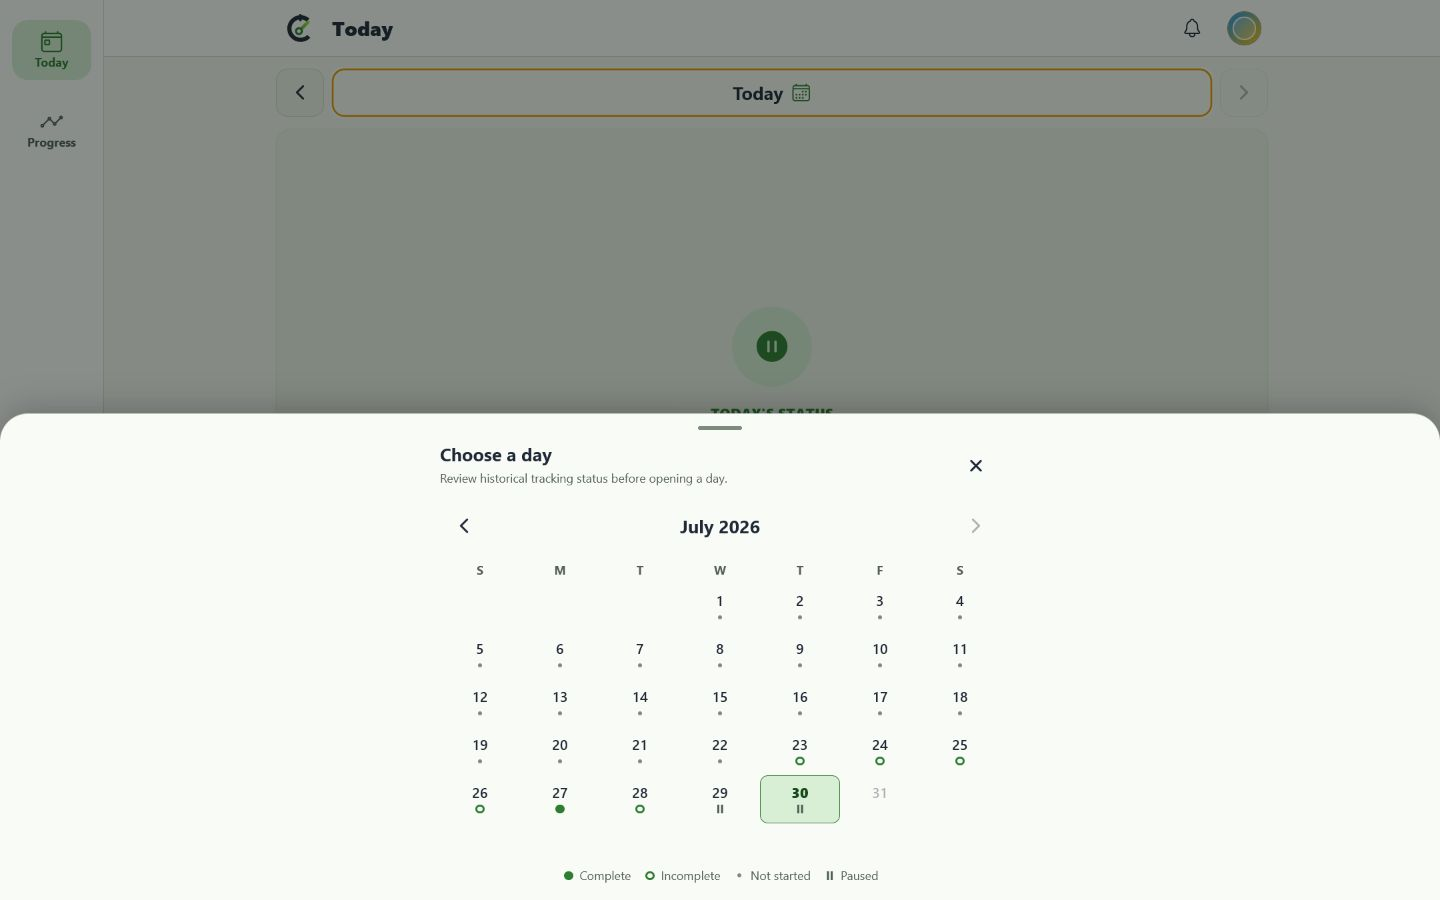
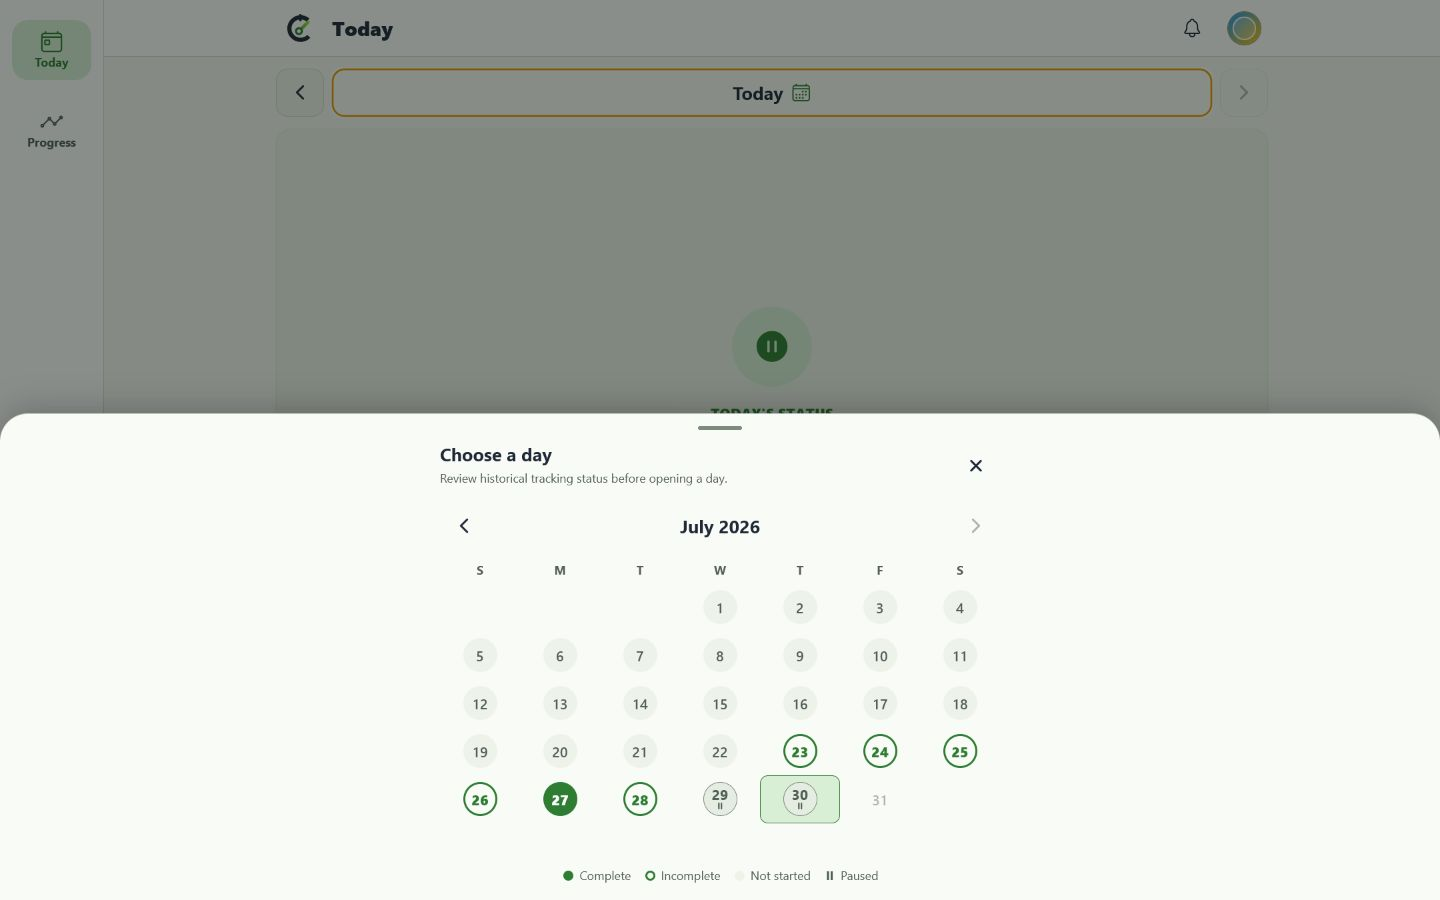
Emphasize calendar status badges

diff --git a/mobile/src/components/HistoricalDatePicker.tsx b/mobile/src/components/HistoricalDatePicker.tsx
@@ -29,7 +29,8 @@ type HistoricalDatePickerProps = {
 
 const WEEKDAY_LABELS = ['S', 'M', 'T', 'W', 'T', 'F', 'S'] as const;
 const CALENDAR_DAY_HEIGHT = 48; // Keeps each compact calendar row physically tappable.
-const CALENDAR_MARKER_SIZE = 9; // Keeps completion marks visible without competing with day numbers.
+const CALENDAR_STATUS_BADGE_SIZE = 34; // Makes the historical state the primary calendar-day silhouette.
+const CALENDAR_LEGEND_MARKER_SIZE = 10; // Keeps legend symbols proportional to their compact labels.
 const CALENDAR_CONTENT_MAX_WIDTH = 560; // Prevents calendar cells from stretching across wide browser sheets.
 
 function formatMonth(monthKey: string): string {
@@ -207,18 +208,37 @@ export const HistoricalDatePicker: React.FC<HistoricalDatePickerProps> = ({
                                             pressed && styles.pressed
                                         ]}
                                     >
-                                        <AppText
-                                            variant="label"
+                                        <View
+                                            testID={`calendar-date-badge-${date}`}
                                             style={[
-                                                styles.dayNumber,
-                                                isToday && styles.todayNumber,
-                                                isSelected && styles.selectedDayNumber
+                                                styles.dateBadge,
+                                                marker === 'complete' && styles.completeDateBadge,
+                                                marker === 'incomplete' && styles.incompleteDateBadge,
+                                                marker === 'not-started' && styles.notStartedDateBadge,
+                                                marker === 'paused' && styles.pausedDateBadge
                                             ]}
                                         >
-                                            {Number(date.slice(-2))}
-                                        </AppText>
-                                        <View style={styles.markerSlot}>
-                                            <CalendarMarker marker={marker} theme={theme} styles={styles} />
+                                            <AppText
+                                                variant="label"
+                                                style={[
+                                                    styles.dayNumber,
+                                                    isToday && styles.todayNumber,
+                                                    isSelected && marker === 'none' && styles.selectedDayNumber,
+                                                    marker === 'complete' && styles.completeDayNumber,
+                                                    marker === 'incomplete' && styles.incompleteDayNumber,
+                                                    marker === 'not-started' && styles.notStartedDayNumber,
+                                                    marker === 'paused' && styles.pausedDayNumber
+                                                ]}
+                                            >
+                                                {Number(date.slice(-2))}
+                                            </AppText>
+                                            {marker === 'paused' && (
+                                                <Ionicons
+                                                    name="pause"
+                                                    size={9}
+                                                    color={theme.colors.onSurfaceVariant}
+                                                />
+                                            )}
                                         </View>
                                     </Pressable>
                                 );
@@ -324,6 +344,28 @@ function createStyles(theme: AppTheme) {
             color: theme.colors.onSurface,
             lineHeight: 20
         },
+        dateBadge: {
+            width: CALENDAR_STATUS_BADGE_SIZE,
+            height: CALENDAR_STATUS_BADGE_SIZE,
+            alignItems: 'center',
+            justifyContent: 'center',
+            borderRadius: CALENDAR_STATUS_BADGE_SIZE / 2
+        },
+        completeDateBadge: {
+            backgroundColor: theme.colors.success
+        },
+        incompleteDateBadge: {
+            borderWidth: 2,
+            borderColor: theme.colors.success
+        },
+        notStartedDateBadge: {
+            backgroundColor: theme.colors.surfaceContainer
+        },
+        pausedDateBadge: {
+            borderWidth: theme.stroke.control,
+            borderColor: theme.colors.outline,
+            backgroundColor: theme.colors.surfaceContainerHigh
+        },
         todayNumber: {
             color: theme.colors.primary,
             fontWeight: '800'
@@ -331,33 +373,44 @@ function createStyles(theme: AppTheme) {
         selectedDayNumber: {
             color: theme.colors.onPrimaryContainer
         },
-        markerSlot: {
-            height: 14,
-            alignItems: 'center',
-            justifyContent: 'center'
+        completeDayNumber: {
+            color: theme.colors.onSuccess,
+            fontWeight: '800'
+        },
+        incompleteDayNumber: {
+            color: theme.colors.success,
+            fontWeight: '800'
+        },
+        notStartedDayNumber: {
+            color: theme.colors.onSurfaceVariant
+        },
+        pausedDayNumber: {
+            color: theme.colors.onSurfaceVariant,
+            fontWeight: '700',
+            lineHeight: 14
         },
         markerPlaceholder: {
-            width: CALENDAR_MARKER_SIZE,
-            height: CALENDAR_MARKER_SIZE
+            width: CALENDAR_LEGEND_MARKER_SIZE,
+            height: CALENDAR_LEGEND_MARKER_SIZE
         },
         completeMarker: {
-            width: CALENDAR_MARKER_SIZE,
-            height: CALENDAR_MARKER_SIZE,
-            borderRadius: CALENDAR_MARKER_SIZE / 2,
+            width: CALENDAR_LEGEND_MARKER_SIZE,
+            height: CALENDAR_LEGEND_MARKER_SIZE,
+            borderRadius: CALENDAR_LEGEND_MARKER_SIZE / 2,
             backgroundColor: theme.colors.success
         },
         incompleteMarker: {
-            width: CALENDAR_MARKER_SIZE,
-            height: CALENDAR_MARKER_SIZE,
-            borderRadius: CALENDAR_MARKER_SIZE / 2,
+            width: CALENDAR_LEGEND_MARKER_SIZE,
+            height: CALENDAR_LEGEND_MARKER_SIZE,
+            borderRadius: CALENDAR_LEGEND_MARKER_SIZE / 2,
             borderWidth: 2,
             borderColor: theme.colors.success
         },
         notStartedMarker: {
-            width: 4,
-            height: 4,
-            borderRadius: 2,
-            backgroundColor: theme.colors.outline
+            width: CALENDAR_LEGEND_MARKER_SIZE,
+            height: CALENDAR_LEGEND_MARKER_SIZE,
+            borderRadius: CALENDAR_LEGEND_MARKER_SIZE / 2,
+            backgroundColor: theme.colors.surfaceContainer
         },
         queryStatus: {
             minHeight: 20,

diff --git a/mobile/src/components/HistoricalDatePicker.test.tsx b/mobile/src/components/HistoricalDatePicker.test.tsx
@@ -1,7 +1,9 @@
 import React from 'react';
 import { fireEvent, render, waitFor } from '@testing-library/react-native';
+import { StyleSheet } from 'react-native';
 import { QueryClient, QueryClientProvider } from '@tanstack/react-query';
 import type { FoodLogDay, FoodLogDaySource, FoodLogDayStatus } from '@calibrate/api-client';
+import { themes } from '../theme';
 import { HistoricalDatePicker } from './HistoricalDatePicker';
 
 const mockGetFoodDays = jest.fn();
@@ -78,6 +80,34 @@ describe('HistoricalDatePicker', () => {
         expect(screen.getByLabelText(/Jul 13, 2026, not started/i)).toBeTruthy();
         expect(screen.getByLabelText(/Jul 14, 2026, tracking paused/i)).toBeTruthy();
         expect(screen.getByLabelText(/Jul 18, 2026, today, in progress/i)).toBeTruthy();
+
+        expect(StyleSheet.flatten(screen.getByTestId('calendar-date-badge-2026-07-11').props.style)).toEqual(
+            expect.objectContaining({
+                width: 34,
+                height: 34,
+                borderRadius: 17,
+                backgroundColor: themes.light.colors.success
+            })
+        );
+        expect(StyleSheet.flatten(screen.getByTestId('calendar-date-badge-2026-07-12').props.style)).toEqual(
+            expect.objectContaining({
+                width: 34,
+                height: 34,
+                borderWidth: 2,
+                borderColor: themes.light.colors.success
+            })
+        );
+        expect(StyleSheet.flatten(screen.getByTestId('calendar-date-badge-2026-07-13').props.style)).toEqual(
+            expect.objectContaining({
+                backgroundColor: themes.light.colors.surfaceContainer
+            })
+        );
+        expect(StyleSheet.flatten(screen.getByTestId('calendar-date-badge-2026-07-14').props.style)).toEqual(
+            expect.objectContaining({
+                borderColor: themes.light.colors.outline,
+                backgroundColor: themes.light.colors.surfaceContainerHigh
+            })
+        );
 
         fireEvent.press(completeDay);
         expect(onSelectDate).toHaveBeenCalledWith('2026-07-11');
